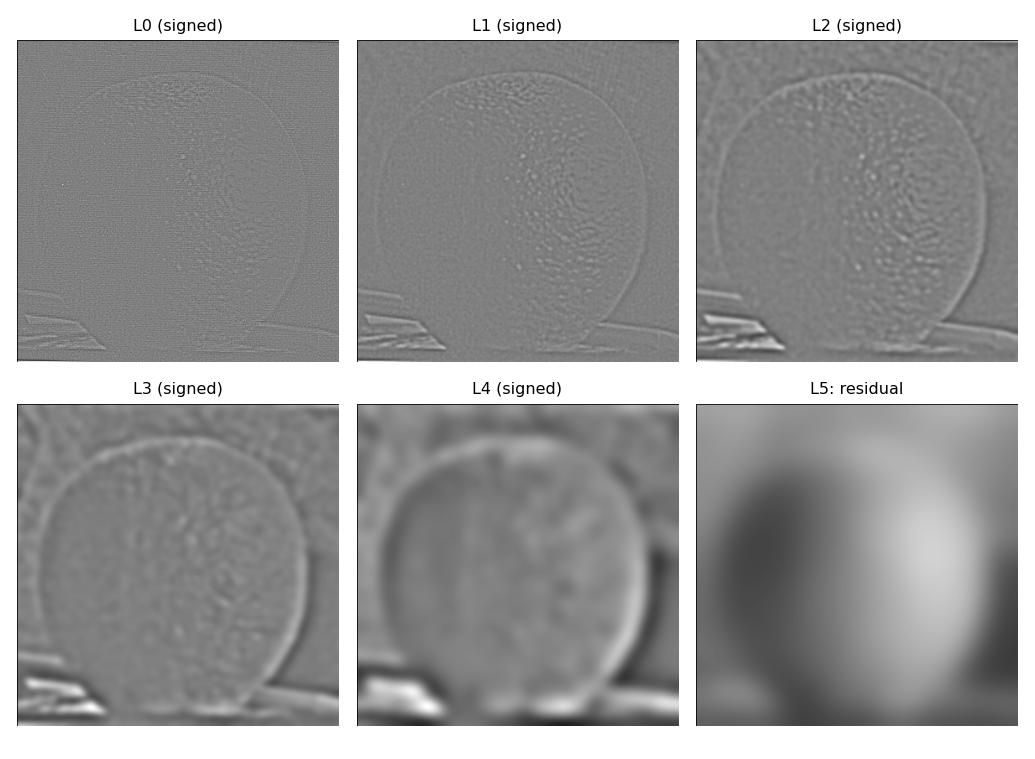
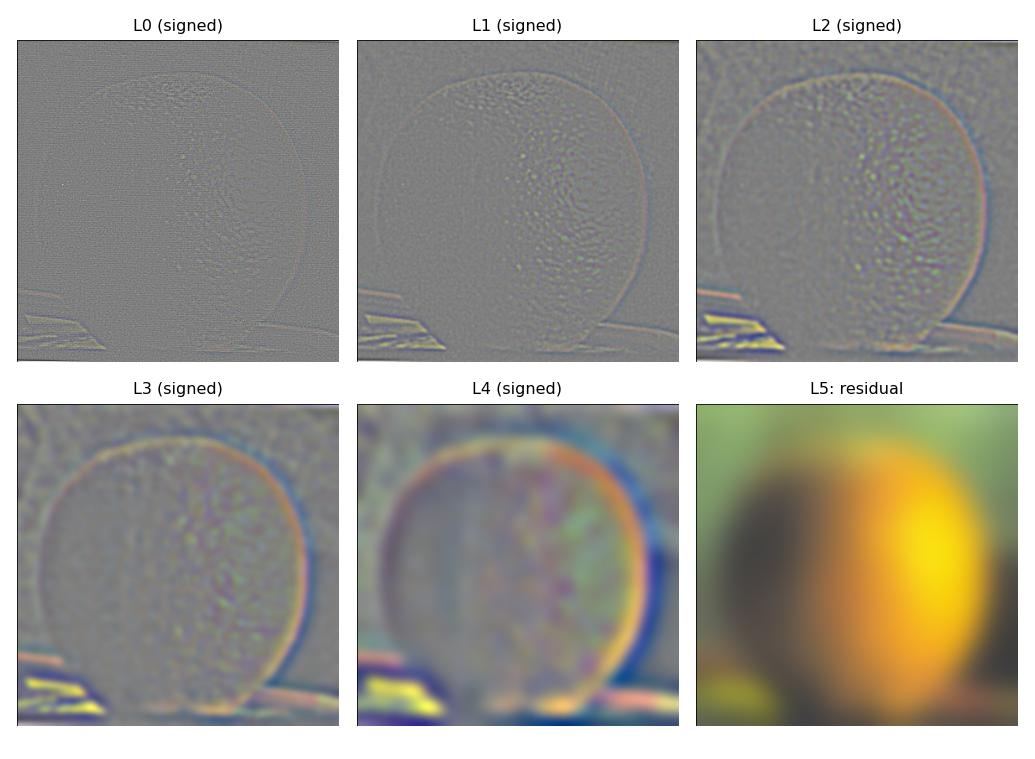
Preserve RGB colors in Proj2 frequency experiments

diff --git a/static/cs180/proj2/index.html b/static/cs180/proj2/index.html
@@ -18,7 +18,7 @@ pre{padding:18px;background:#f5f5f5;border:1px solid #aaa;overflow:auto;font:12p
 <body><main>
 <h1>CS180 Project 2 — Filters and Frequencies</h1>
 <nav><a href="#part1_1">1.1 Convolution</a><a href="#part1_2">1.2 Differences</a><a href="#part1_3">1.3 DoG</a><a href="#part2_1">2.1 Sharpening</a><a href="#part2_2">2.2 Hybrids</a><a href="#part2_3">2.3 Stacks</a><a href="#part2_4">2.4 Blending</a></nav>
-<section id="part1_1"><h2>1.1 — Convolutions from scratch</h2><p>Flip the kernel in both axes, multiply each image window by it, and sum. The four-loop version sums pixel by pixel; the two-loop version uses a NumPy sum. Both return the input size with zero padding. For even kernels, the extra padding goes on the top/left to match SciPy’s same mode. Zero padding darkens the box-filter boundary and creates derivative responses at the image frame.</p><p>The input is my normal-perspective Proj0 portrait, converted to grayscale and resized to 192 × 256. The box kernel is ones((9, 9))/81; Dx = [1, −1], Dy = Dxᵀ. Signed derivatives are displayed around mid-gray.</p><figure><a href="images/1_1.jpg"><img src="images/1_1.jpg" alt="Portrait filtering; display scaling does not change the computed derivatives."></a><figcaption>Portrait filtering; display scaling does not change the computed derivatives.</figcaption></figure><table><tr><th>Filter</th><th>4 loops (s)</th><th>2 loops (s)</th><th>SciPy (s)</th><th>Max absolute error</th></tr><tr><td>9 × 9 box</td><td>0.7682</td><td>0.0703</td><td>0.0033</td><td>2.44e-15</td></tr><tr><td>Dx</td><td>0.0251</td><td>0.0660</td><td>0.0002</td><td>0.00e+00</td></tr><tr><td>Dy</td><td>0.0280</td><td>0.0656</td><td>0.0003</td><td>0.00e+00</td></tr></table><p>These are one-run timings on the same input. Removing the inner Python loops helps the 9 × 9 filter, but a NumPy sum per pixel adds overhead for tiny derivative kernels. SciPy’s compiled implementation is faster. All outputs agree to floating-point precision.</p><details open><summary>Convolution code</summary><pre><code>def convolve_four_loops(image, kernel):
+<section id="part1_1"><h2>1.1 — Convolutions from scratch</h2><p>Flip the kernel in both axes, multiply each image window by it, and sum. The four-loop version sums pixel by pixel; the two-loop version uses a NumPy sum. Both return the input size with zero padding. For even kernels, the extra padding goes on the top/left to match SciPy’s same mode. Zero padding darkens the box-filter boundary and creates derivative responses at the image frame.</p><p>The input is my normal-perspective Proj0 portrait, converted to grayscale and resized to 192 × 256. The box kernel is ones((9, 9))/81; Dx = [1, −1], Dy = Dxᵀ. Signed derivatives are displayed around mid-gray.</p><figure><a href="images/1_1.jpg"><img src="images/1_1.jpg" alt="Portrait filtering; display scaling does not change the computed derivatives."></a><figcaption>Portrait filtering; display scaling does not change the computed derivatives.</figcaption></figure><table><tr><th>Filter</th><th>4 loops (s)</th><th>2 loops (s)</th><th>SciPy (s)</th><th>Max absolute error</th></tr><tr><td>9 × 9 box</td><td>0.7506</td><td>0.0711</td><td>0.0035</td><td>2.44e-15</td></tr><tr><td>Dx</td><td>0.0244</td><td>0.0668</td><td>0.0002</td><td>0.00e+00</td></tr><tr><td>Dy</td><td>0.0269</td><td>0.0664</td><td>0.0003</td><td>0.00e+00</td></tr></table><p>These are one-run timings on the same input. Removing the inner Python loops helps the 9 × 9 filter, but a NumPy sum per pixel adds overhead for tiny derivative kernels. SciPy’s compiled implementation is faster. All outputs agree to floating-point precision.</p><details open><summary>Convolution code</summary><pre><code>def convolve_four_loops(image, kernel):
     h, w = image.shape
     kh, kw = kernel.shape
     padded = np.pad(image, ((kh // 2, (kh - 1) // 2),
@@ -47,10 +47,10 @@ def convolve_two_loops(image, kernel):
 </code></pre></details></section>
 <section id="part1_2"><h2>1.2 — Finite difference operator</h2><p>Convolve with Dx = [1, −1] and Dy = Dxᵀ. The gradient magnitude is √(Ix² + Iy²); an edge is a pixel whose magnitude exceeds the threshold. Symmetric boundaries avoid artificial edges against a black frame.</p><figure><a href="images/1_2.jpg"><img src="images/1_2.jpg" alt="Signed derivatives, normalized magnitude display, and binary edges."></a><figcaption>Signed derivatives, normalized magnitude display, and binary edges.</figcaption></figure><figure><a href="images/1_2_thresholds.jpg"><img src="images/1_2_thresholds.jpg" alt="Thresholds are applied to the raw gradient of a [0, 1] image."></a><figcaption>Thresholds are applied to the raw gradient of a [0, 1] image.</figcaption></figure><p>I use 0.14: 0.08 retains more grass texture, while 0.20 loses weaker contours. The middle choice keeps the person and tripod while removing some weak responses; texture still appears because finite differences respond to rapid changes everywhere.</p></section>
 <section id="part1_3"><h2>1.3 — Derivative of Gaussian</h2><p>Build an 11 × 11 Gaussian with σ = 1.5 using cv2.getGaussianKernel and an outer product. Smoothing before differentiation suppresses fine texture. The resulting contours are thicker and less noisy, but some fine details disappear. Their lower magnitudes need a lower threshold (0.04).</p><figure><a href="images/1_3_filters.jpg"><img src="images/1_3_filters.jpg" alt="Gaussian and signed derivative-of-Gaussian kernels."></a><figcaption>Gaussian and signed derivative-of-Gaussian kernels.</figcaption></figure><figure><a href="images/1_3.jpg"><img src="images/1_3.jpg" alt="Blur then differentiate, compared with one convolution per derivative using DoG."></a><figcaption>Blur then differentiate, compared with one convolution per derivative using DoG.</figcaption></figure><figure><a href="images/1_3_compare.jpg"><img src="images/1_3_compare.jpg" alt="Noise comparison and numerical equivalence."></a><figcaption>Noise comparison and numerical equivalence.</figcaption></figure><p>Associativity gives (I * G) * Dx = I * (G * Dx). With one symmetric extension and valid convolutions, the maximum x/y error over the whole image is 1.40e-15. If the intermediate image is extended again, only the boundary differs; interior error is 1.40e-15. Keeping these boundary conventions explicit avoids a misleading comparison.</p></section>
-<section id="part2_1"><h2>2.1 — Image sharpening</h2><p>Unsharp masking adds amplified high frequencies: S = I + α(I − G * I). Equivalently, use one convolution with (1 + α)δ − αG. The implementation uses this single kernel. Computation stays in floating point; only display clips to [0, 1].</p><figure><a href="images/2_1_taj.jpg"><img src="images/2_1_taj.jpg" alt="Taj: blur, high frequencies, and three sharpening amounts."></a><figcaption>Taj: blur, high frequencies, and three sharpening amounts.</figcaption></figure><figure><a href="images/2_1_campus.jpg"><img src="images/2_1_campus.jpg" alt="Campus: blur, high frequencies, and three sharpening amounts."></a><figcaption>Campus: blur, high frequencies, and three sharpening amounts.</figcaption></figure><figure><a href="images/2_1_recovery.jpg"><img src="images/2_1_recovery.jpg" alt="Blur-then-sharpen evaluation on my Proj0 campus photograph."></a><figcaption>Blur-then-sharpen evaluation on my Proj0 campus photograph.</figcaption></figure><p>Increasing α strengthens edges, but α = 3 also exaggerates texture and creates halos. On the deliberately blurred campus image, MSE relative to the original changes from 0.004471 to 0.003248. Sharpening restores some edge contrast, but cannot recover details removed by blur; it is not an inverse filter.</p></section>
-<section id="part2_2"><h2>2.2 — Hybrid images</h2><p>A hybrid adds a Gaussian low-pass image to a second image’s high-pass residual: H = GσL * A + (B − GσH * B). Close viewing reveals fine detail from B; at a distance, A’s broad structure dominates. All hybrids are grayscale.</p><p>Two manually chosen eye centers (or building landmarks) define a similarity transform. Each pair is rotated, uniformly scaled and translated to common landmarks, then cropped to shared valid coverage. The first image supplies low frequencies.</p><figure><a href="images/2_2_derek_nutmeg.jpg"><img src="images/2_2_derek_nutmeg.jpg" alt="Derek + Nutmeg"></a><figcaption>Derek + Nutmeg</figcaption></figure><p>σL = 5, σH = 3 pixels at the aligned resolution. <a href="images/2_2_derek_nutmeg_result.jpg">Open hybrid at full size</a>.</p><figure><a href="images/2_2_process.jpg"><img src="images/2_2_process.jpg" alt="Derek + Nutmeg: aligned inputs, filtered components, and hybrid."></a><figcaption>Derek + Nutmeg: aligned inputs, filtered components, and hybrid.</figcaption></figure><figure><a href="images/2_2_fourier.jpg"><img src="images/2_2_fourier.jpg" alt="Log(1 + |fftshift(fft2(I))|); each panel is independently display-normalized."></a><figcaption>Log(1 + |fftshift(fft2(I))|); each panel is independently display-normalized.</figcaption></figure><figure><a href="images/2_2_cutoffs.jpg"><img src="images/2_2_cutoffs.jpg" alt="Cutoff comparison at the same aligned resolution."></a><figcaption>Cutoff comparison at the same aligned resolution.</figcaption></figure><p>I choose (5, 3): the smaller sigmas retain more competing facial detail, while (8, 5) makes the cat’s broader features dominate. Gaussian filters have no hard cutoff; their approximate half-amplitude frequency is √(2 ln 2)/(2πσ), giving 0.0375 and 0.0625 cycles/pixel for σ = 5 and 3. The low-pass spectrum concentrates around the center; subtracting the blur suppresses the high-pass center.</p><figure><a href="images/2_2_yuan_perspectives.jpg"><img src="images/2_2_yuan_perspectives.jpg" alt="Yuan + Perspectives"></a><figcaption>Yuan + Perspectives</figcaption></figure><p>σL = 5, σH = 3 pixels at the aligned resolution. <a href="images/2_2_yuan_perspectives_result.jpg">Open hybrid at full size</a>.</p><figure><a href="images/2_2_church_monastery.jpg"><img src="images/2_2_church_monastery.jpg" alt="Church + Monastery"></a><figcaption>Church + Monastery</figcaption></figure><p>σL = 6, σH = 2 pixels at the aligned resolution. <a href="images/2_2_church_monastery_result.jpg">Open hybrid at full size</a>.</p><p>The face pairs share eye landmarks. My custom portrait pair combines the normal-distance face shape with close-selfie detail; the change is subtle because it is the same person. Church + Monastery is a less successful example: two landmarks cannot align every tower, so overlapping rooflines remain. It illustrates the limit of combining structurally different scenes.</p></section>
-<section id="part2_3"><h2>2.3 — Gaussian and Laplacian stacks</h2><p>All stack levels keep the original dimensions. G0 = I; later levels blur I with σ = 1, 2, 4, 8, 16 pixels using separable Gaussian convolutions. Li = Gi − Gi+1, with the last Gaussian retained as the low-frequency residual. Summing all Laplacian levels reconstructs the original. No built-in pyramid function is used.</p><figure><a href="images/2_3_apple_gaussian.jpg"><img src="images/2_3_apple_gaussian.jpg" alt="Apple: Gaussian stack, no downsampling."></a><figcaption>Apple: Gaussian stack, no downsampling.</figcaption></figure><figure><a href="images/2_3_apple_laplacian.jpg"><img src="images/2_3_apple_laplacian.jpg" alt="Apple: Laplacian bands; each signed band is display-normalized."></a><figcaption>Apple: Laplacian bands; each signed band is display-normalized.</figcaption></figure><figure><a href="images/2_3_orange_gaussian.jpg"><img src="images/2_3_orange_gaussian.jpg" alt="Orange: Gaussian stack, no downsampling."></a><figcaption>Orange: Gaussian stack, no downsampling.</figcaption></figure><figure><a href="images/2_3_orange_laplacian.jpg"><img src="images/2_3_orange_laplacian.jpg" alt="Orange: Laplacian bands; each signed band is display-normalized."></a><figcaption>Orange: Laplacian bands; each signed band is display-normalized.</figcaption></figure><p>Fine edges appear in early Laplacian levels; broader intensity changes appear later. The final residual carries the smooth brightness structure. The masked (a)–(l) reconstruction is shown with the blend in Part 2.4.</p></section>
-<section id="part2_4"><h2>2.4 — Multiresolution blending</h2><p>Build Gaussian stacks for the mask and Laplacian stacks for both images. At each level, combine Mi · LAi + (1 − Mi) · LBi, then sum the bands and residual. The blurred masks make coarse transitions wider while preserving localized fine detail. All blends are grayscale; color extensions are outside this project’s selected scope.</p><figure><a href="images/2_4_oraple.jpg"><img src="images/2_4_oraple.jpg" alt="Oraple: inputs, mask, direct cut, and blend."></a><figcaption>Oraple: inputs, mask, direct cut, and blend.</figcaption></figure><figure><a href="images/2_4_oraple_layers.jpg"><img src="images/2_4_oraple_layers.jpg" alt="Masked Laplacian contributions at levels 0, 2, 4 and their reconstruction; one shared display scale per band row."></a><figcaption>Masked Laplacian contributions at levels 0, 2, 4 and their reconstruction; one shared display scale per band row.</figcaption></figure><figure><a href="images/2_4_oraple_masks.jpg"><img src="images/2_4_oraple_masks.jpg" alt="The mask’s Gaussian stack widens the transition at coarse scales."></a><figcaption>The mask’s Gaussian stack widens the transition at coarse scales.</figcaption></figure><figure><a href="images/2_4_portrait_campus.jpg"><img src="images/2_4_portrait_campus.jpg" alt="Portrait + Campus: inputs, mask, direct cut, and blend."></a><figcaption>Portrait + Campus: inputs, mask, direct cut, and blend.</figcaption></figure><figure><a href="images/2_4_portrait_campus_layers.jpg"><img src="images/2_4_portrait_campus_layers.jpg" alt="Masked Laplacian contributions at levels 0, 2, 4 and their reconstruction; one shared display scale per band row."></a><figcaption>Masked Laplacian contributions at levels 0, 2, 4 and their reconstruction; one shared display scale per band row.</figcaption></figure><figure><a href="images/2_4_portrait_campus_masks.jpg"><img src="images/2_4_portrait_campus_masks.jpg" alt="The mask’s Gaussian stack widens the transition at coarse scales."></a><figcaption>The mask’s Gaussian stack widens the transition at coarse scales.</figcaption></figure><figure><a href="images/2_4_valley_wharf.jpg"><img src="images/2_4_valley_wharf.jpg" alt="Valley + Wharf: inputs, mask, direct cut, and blend."></a><figcaption>Valley + Wharf: inputs, mask, direct cut, and blend.</figcaption></figure><p>The Oraple uses a vertical step. The two custom blends use an elliptical portrait mask and a wavy river boundary. Compared with a direct cut, low-frequency brightness changes are smoother. Blending does not solve semantic mismatches: the portrait can look translucent near the soft boundary, and unrelated landscape structures still meet.</p><p>The most important thing I learned is that boundaries and frequency bands matter together: smoothing suppresses noisy derivatives, sharpening boosts existing detail, and blending needs a smooth mask at every frequency scale.</p></section>
+<section id="part2_1"><h2>2.1 — Image sharpening</h2><p>Unsharp masking adds amplified high frequencies: S = I + α(I − G * I). Equivalently, use one convolution with (1 + α)δ − αG. The implementation uses this single kernel independently on R, G and B. Computation stays in floating point; only display clips to [0, 1].</p><figure><a href="images/2_1_taj.jpg"><img src="images/2_1_taj.jpg" alt="Taj: blur, high frequencies, and three sharpening amounts."></a><figcaption>Taj: blur, high frequencies, and three sharpening amounts.</figcaption></figure><figure><a href="images/2_1_campus.jpg"><img src="images/2_1_campus.jpg" alt="Campus: blur, high frequencies, and three sharpening amounts."></a><figcaption>Campus: blur, high frequencies, and three sharpening amounts.</figcaption></figure><figure><a href="images/2_1_recovery.jpg"><img src="images/2_1_recovery.jpg" alt="Blur-then-sharpen evaluation on my Proj0 campus photograph."></a><figcaption>Blur-then-sharpen evaluation on my Proj0 campus photograph.</figcaption></figure><p>Increasing α strengthens edges, but α = 3 also exaggerates texture and creates halos. On the deliberately blurred campus image, MSE relative to the original changes from 0.004495 to 0.003253. Sharpening restores some edge contrast, but cannot recover details removed by blur; it is not an inverse filter.</p></section>
+<section id="part2_2"><h2>2.2 — Hybrid images</h2><p>A hybrid adds a Gaussian low-pass image to a second image’s high-pass residual: H = GσL * A + (B − GσH * B). Close viewing reveals fine detail from B; at a distance, A’s broad structure dominates. Both frequency components retain RGB color; filtering is applied per channel.</p><p>Two manually chosen eye centers (or building landmarks) define a similarity transform. Each pair is rotated, uniformly scaled and translated to common landmarks, then cropped to shared valid coverage. The first image supplies low frequencies.</p><figure><a href="images/2_2_derek_nutmeg.jpg"><img src="images/2_2_derek_nutmeg.jpg" alt="Derek + Nutmeg"></a><figcaption>Derek + Nutmeg</figcaption></figure><p>σL = 5, σH = 3 pixels at the aligned resolution. <a href="images/2_2_derek_nutmeg_result.jpg">Open hybrid at full size</a>.</p><figure><a href="images/2_2_process.jpg"><img src="images/2_2_process.jpg" alt="Derek + Nutmeg: aligned inputs, filtered components, and hybrid."></a><figcaption>Derek + Nutmeg: aligned inputs, filtered components, and hybrid.</figcaption></figure><figure><a href="images/2_2_fourier.jpg"><img src="images/2_2_fourier.jpg" alt="Luminance log(1 + |fftshift(fft2(I))|); each panel is independently display-normalized."></a><figcaption>Luminance log(1 + |fftshift(fft2(I))|); each panel is independently display-normalized.</figcaption></figure><figure><a href="images/2_2_cutoffs.jpg"><img src="images/2_2_cutoffs.jpg" alt="Cutoff comparison at the same aligned resolution."></a><figcaption>Cutoff comparison at the same aligned resolution.</figcaption></figure><p>I choose (5, 3): the smaller sigmas retain more competing facial detail, while (8, 5) makes the cat’s broader features dominate. Gaussian filters have no hard cutoff; their approximate half-amplitude frequency is √(2 ln 2)/(2πσ), giving 0.0375 and 0.0625 cycles/pixel for σ = 5 and 3. The low-pass spectrum concentrates around the center; subtracting the blur suppresses the high-pass center.</p><figure><a href="images/2_2_yuan_perspectives.jpg"><img src="images/2_2_yuan_perspectives.jpg" alt="Yuan + Perspectives"></a><figcaption>Yuan + Perspectives</figcaption></figure><p>σL = 5, σH = 3 pixels at the aligned resolution. <a href="images/2_2_yuan_perspectives_result.jpg">Open hybrid at full size</a>.</p><figure><a href="images/2_2_church_monastery.jpg"><img src="images/2_2_church_monastery.jpg" alt="Church + Monastery"></a><figcaption>Church + Monastery</figcaption></figure><p>σL = 6, σH = 2 pixels at the aligned resolution. <a href="images/2_2_church_monastery_result.jpg">Open hybrid at full size</a>.</p><p>The face pairs share eye landmarks. My custom portrait pair combines the normal-distance face shape with close-selfie detail; the change is subtle because it is the same person. Church + Monastery is a less successful example: two landmarks cannot align every tower, so overlapping rooflines remain. It illustrates the limit of combining structurally different scenes.</p></section>
+<section id="part2_3"><h2>2.3 — Gaussian and Laplacian stacks</h2><p>RGB channels are filtered independently. All stack levels keep the original dimensions. G0 = I; later levels blur I with σ = 1, 2, 4, 8, 16 pixels using separable Gaussian convolutions. Li = Gi − Gi+1, with the last Gaussian retained as the low-frequency residual. Summing all Laplacian levels reconstructs the original. No built-in pyramid function is used.</p><figure><a href="images/2_3_apple_gaussian.jpg"><img src="images/2_3_apple_gaussian.jpg" alt="Apple: Gaussian stack, no downsampling."></a><figcaption>Apple: Gaussian stack, no downsampling.</figcaption></figure><figure><a href="images/2_3_apple_laplacian.jpg"><img src="images/2_3_apple_laplacian.jpg" alt="Apple: Laplacian bands; each signed band is display-normalized."></a><figcaption>Apple: Laplacian bands; each signed band is display-normalized.</figcaption></figure><figure><a href="images/2_3_orange_gaussian.jpg"><img src="images/2_3_orange_gaussian.jpg" alt="Orange: Gaussian stack, no downsampling."></a><figcaption>Orange: Gaussian stack, no downsampling.</figcaption></figure><figure><a href="images/2_3_orange_laplacian.jpg"><img src="images/2_3_orange_laplacian.jpg" alt="Orange: Laplacian bands; each signed band is display-normalized."></a><figcaption>Orange: Laplacian bands; each signed band is display-normalized.</figcaption></figure><p>Fine edges appear in early Laplacian levels; broader intensity changes appear later. The final residual carries the smooth brightness structure. The masked (a)–(l) reconstruction is shown with the blend in Part 2.4.</p></section>
+<section id="part2_4"><h2>2.4 — Multiresolution blending</h2><p>Build Gaussian stacks for the mask and Laplacian stacks for both images. At each level, combine Mi · LAi + (1 − Mi) · LBi, then sum the bands and residual. The blurred masks make coarse transitions wider while preserving localized fine detail. The same two-dimensional mask is applied to each RGB channel, preserving the source colors.</p><figure><a href="images/2_4_oraple.jpg"><img src="images/2_4_oraple.jpg" alt="Oraple: inputs, mask, direct cut, and blend."></a><figcaption>Oraple: inputs, mask, direct cut, and blend.</figcaption></figure><figure><a href="images/2_4_oraple_layers.jpg"><img src="images/2_4_oraple_layers.jpg" alt="Masked Laplacian contributions at levels 0, 2, 4 and their reconstruction; one shared display scale per band row."></a><figcaption>Masked Laplacian contributions at levels 0, 2, 4 and their reconstruction; one shared display scale per band row.</figcaption></figure><figure><a href="images/2_4_oraple_masks.jpg"><img src="images/2_4_oraple_masks.jpg" alt="The mask’s Gaussian stack widens the transition at coarse scales."></a><figcaption>The mask’s Gaussian stack widens the transition at coarse scales.</figcaption></figure><figure><a href="images/2_4_portrait_campus.jpg"><img src="images/2_4_portrait_campus.jpg" alt="Portrait + Campus: inputs, mask, direct cut, and blend."></a><figcaption>Portrait + Campus: inputs, mask, direct cut, and blend.</figcaption></figure><figure><a href="images/2_4_portrait_campus_layers.jpg"><img src="images/2_4_portrait_campus_layers.jpg" alt="Masked Laplacian contributions at levels 0, 2, 4 and their reconstruction; one shared display scale per band row."></a><figcaption>Masked Laplacian contributions at levels 0, 2, 4 and their reconstruction; one shared display scale per band row.</figcaption></figure><figure><a href="images/2_4_portrait_campus_masks.jpg"><img src="images/2_4_portrait_campus_masks.jpg" alt="The mask’s Gaussian stack widens the transition at coarse scales."></a><figcaption>The mask’s Gaussian stack widens the transition at coarse scales.</figcaption></figure><figure><a href="images/2_4_valley_wharf.jpg"><img src="images/2_4_valley_wharf.jpg" alt="Valley + Wharf: inputs, mask, direct cut, and blend."></a><figcaption>Valley + Wharf: inputs, mask, direct cut, and blend.</figcaption></figure><p>The Oraple uses a vertical step. The two custom blends use an elliptical portrait mask and a wavy river boundary. Compared with a direct cut, low-frequency brightness changes are smoother. Blending does not solve semantic mismatches: the portrait can look translucent near the soft boundary, and unrelated landscape structures still meet.</p><p>The most important thing I learned is that boundaries and frequency bands matter together: smoothing suppresses noisy derivatives, sharpening boosts existing detail, and blending needs a smooth mask at every frequency scale.</p></section>
 <footer>Sources: <a href="https://cal-cs180.github.io/fa26/hw/proj2/index.html">Assignment and Taj Mahal</a>;
 <a href="https://courses.physics.illinois.edu/cs445/fa2020/projects/hybrid/ComputationalPhotography_ProjectHybrid.html">Derek Hoiem: Derek and Nutmeg</a>;
 <a href="https://github.com/scikit-image/scikit-image/blob/v0.19.3/skimage/data/camera.png">Cameraman: scikit-image sample</a>;
